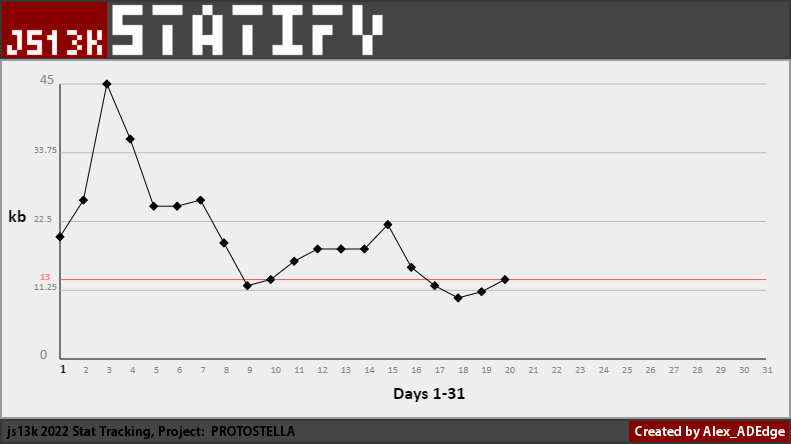
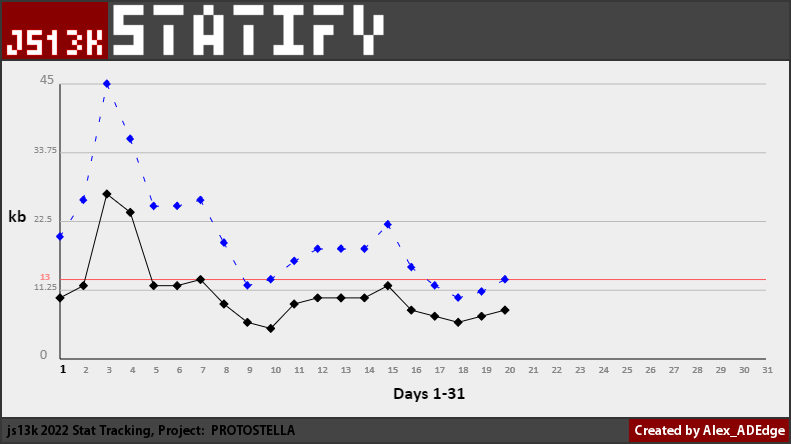
updating graphics

diff --git a/src/functions.js b/src/functions.js
@@ -14,10 +14,15 @@ var GRAPH_HEIGHT = GRAPH_BOTTOM - GRAPH_TOP;
 var GRAPH_WIDTH = GRAPH_RIGHT - GRAPH_LEFT;
 
 //Setup test data
-// var dataArr = [ 20, 26, 45, 36, 25, 25, 26, 19, 12, 13, 16, 18, 18, 18, 22, 15, 12, 10, 11, 13 ];
-var dataArr = [ 45, ];
+var dataArr = [ 20, 26, 45, 36, 25, 25, 26, 19, 12, 13, 16, 18, 18, 18, 22, 15, 12, 10, 11, 13 ];
+//var dataArr = [ 45, 43, 30, 25];
+var dataArrOp = [ 10, 12, 27, 24, 12, 12, 13, 9, 6, 5, 9, 10, 10, 10, 12, 8 , 7, 6, 7, 8 ];
 var arrayLen = 31; //set manually here to 31 days //dataArr.length;  
 var largestElement = 0;
+
+//TODO
+//add toggle for max value graph displays
+
 FindLargestElement();
 
 //Clear canvas  
@@ -46,9 +51,11 @@ DrawLimitLine(GRAPH_LEFT, GRAPH_TOP + (GRAPH_HEIGHT/largestElement) * (largestEl
 PrintAxisHeadings();
 PrintAxisValues();
 
-//Draw the graph
-DrawDataPlot();
+//Draw the uncompressed data graph
+DrawDataPlot_UNCOMPRESSED();
 
+//Draw the optimized data graph
+DrawDataPlot_OPTIMIZED();
 
 /////////////////////////////////////////////////////
 //STATIFY FUNCTIONS
@@ -108,7 +115,7 @@ function DrawLimitLine(startX, startY, endX, endY) {
     ctx.fillText("13", GRAPH_LEFT - 20, startY);
 }
 
-function DrawDataDiamond(x, y, size) {
+function DrawDataDiamond(x, y, size, color) {
     ctx.save();
     ctx.beginPath();
     ctx.moveTo(x, (y)-size);
@@ -121,22 +128,23 @@ function DrawDataDiamond(x, y, size) {
     // closing the path automatically creates
     // the top right edge
     ctx.closePath();
-    ctx.fillStyle = "black";
+    ctx.fillStyle = color;
     ctx.fill();
     ctx.restore();
 
     ctx.moveTo(x, y); //seems needed to get graph drawing from center of points, fix this
 }
 
-function DrawDataPlot() {
+function DrawDataPlot_UNCOMPRESSED() {
     ctx.beginPath();
     ctx.lineJoin = "round";
-    ctx.strokeStyle = "black";
+    ctx.setLineDash([5, 15]);
+    ctx.strokeStyle = "blue";
     //Add first point in the graph
     var pointX = GRAPH_LEFT;
     var pointY = (GRAPH_HEIGHT - dataArr[ 0 ] / largestElement * GRAPH_HEIGHT) + GRAPH_TOP;
     ctx.moveTo(pointX, pointY);
-    DrawDataDiamond(pointX, pointY, 4);
+    DrawDataDiamond(pointX, pointY, 4, 'blue');
     PrintXAxisValue(pointX, 1, true);
     
     //Loop over each datapoint
@@ -147,7 +155,32 @@ function DrawDataPlot() {
         //Draw the graph  
         ctx.stroke();
 
-        DrawDataDiamond(pointX, pointY, 4);
+        DrawDataDiamond(pointX, pointY, 4, 'blue');
+        PrintXAxisValue(pointX, i+1, false);
+        //console.log("checking value: " + i);
+    }
+}
+function DrawDataPlot_OPTIMIZED() {
+    ctx.beginPath();
+    ctx.lineJoin = "round";
+    ctx.setLineDash([]);
+    ctx.strokeStyle = "black";
+    //Add first point in the graph
+    var pointX = GRAPH_LEFT;
+    var pointY = (GRAPH_HEIGHT - dataArrOp[ 0 ] / largestElement * GRAPH_HEIGHT) + GRAPH_TOP;
+    ctx.moveTo(pointX, pointY);
+    DrawDataDiamond(pointX, pointY, 4, 'black');
+    PrintXAxisValue(pointX, 1, true);
+    
+    //Loop over each datapoint
+    for(var i = 1; i < arrayLen; i++ ){
+        pointX = (GRAPH_RIGHT-40) / (arrayLen) * i + GRAPH_LEFT; //-40 here scales down the axis to fit
+        pointY = (GRAPH_HEIGHT - dataArrOp[i] / largestElement * GRAPH_HEIGHT) + GRAPH_TOP;
+        ctx.lineTo(pointX, pointY);
+        //Draw the graph  
+        ctx.stroke();
+
+        DrawDataDiamond(pointX, pointY, 4, 'black');
         PrintXAxisValue(pointX, i+1, false);
         //console.log("checking value: " + i);
     }

diff --git a/src/style.css b/src/style.css
@@ -25,7 +25,7 @@ body {
 #canvasMain {
     z-index: 10;
     background-color: #EEEEEE;
-    outline: 2px solid #999999; 
+    outline: 2px solid #333; 
     outline-offset: -2px;
     /* padding: 0px; */
 }
